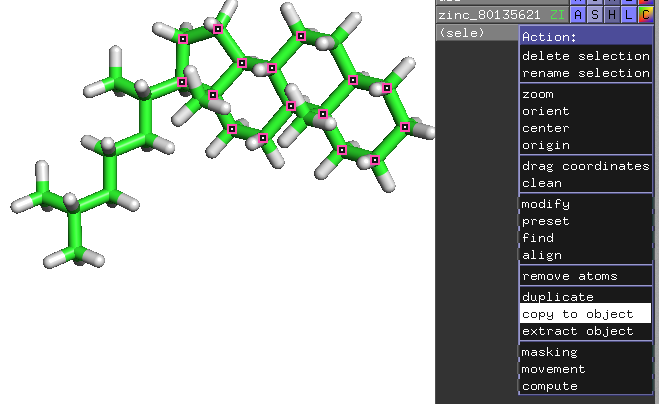
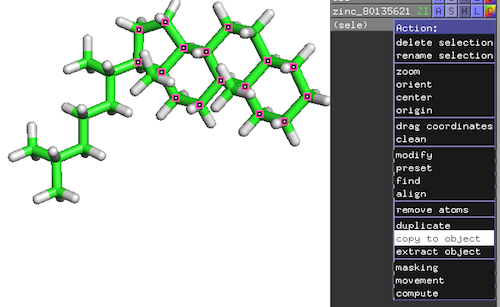
substructure alignment expansion

diff --git a/substructure_alignment/README.md b/substructure_alignment/README.md
@@ -29,14 +29,14 @@ For this example, I randomly picked a steroid-ring containing structure from the
 4. Save substructure as PDB file: File -> Save Molecule...
 
 #### Reference molecule (ZINC80135621)
-![](./Images/reference_molecule.png =350x)
+![](./Images/reference_molecule.png)
 
-![](./Images/pymol_copy_substructure.png =450x)
+![](./Images/pymol_copy_substructure.png)
 
 
 #### Reference substructure
 
-![](./Images/reference_substructure.png =350x)
+![](./Images/reference_substructure.png)
 
 
 ## 2) Convert substructure into SMILES 
